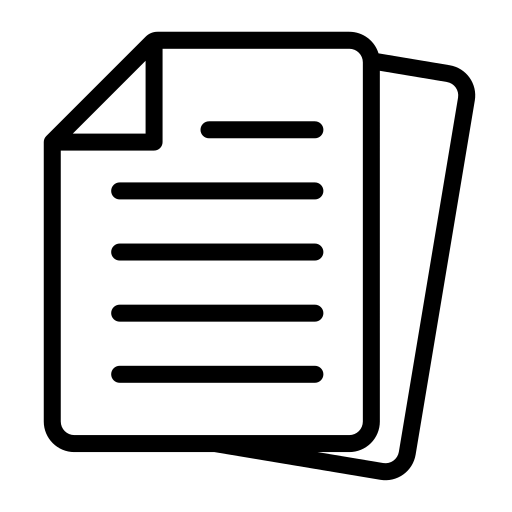
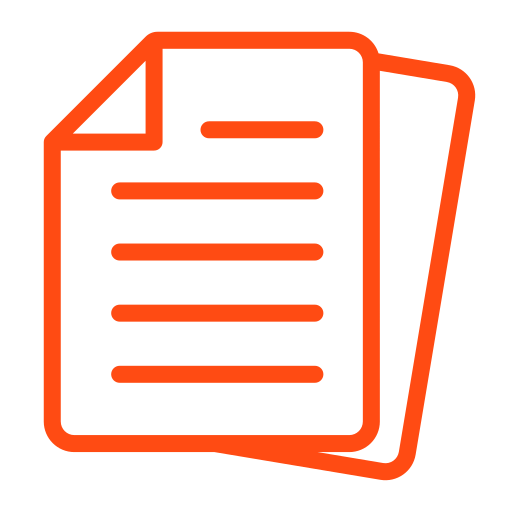
Add applicability result counts and fix table overflow

diff --git a/src/frontend/styles.css b/src/frontend/styles.css
@@ -374,11 +374,15 @@ input {
 .applicability-feedback[hidden] { display: none; }
 .applicability-results-panel { display: flex; min-height: 420px; flex: 1 1 auto; flex-direction: column; }
 .applicability-results-table { min-height: 0; flex: 1 1 auto; overflow: auto; }
-.applicability-results-table table { min-width: 560px; }
+.applicability-results-table table { width: 100%; min-width: 560px; }
 .applicability-results-table th,
-.applicability-results-table td { padding: 10px 12px; }
-.applicability-results-footer { display: flex; min-height: 58px; flex: 0 0 auto; align-items: center; justify-content: flex-end; padding: 9px 12px; border-top: 1px solid var(--line); background: #fff; }
-.applicability-results-actions { display: grid; justify-items: end; gap: 8px; }
+.applicability-results-table td { padding: 10px 12px; overflow-wrap: anywhere; }
+.applicability-results-footer { display: flex; min-height: 58px; flex: 0 0 auto; align-items: center; flex-wrap: wrap; gap: 12px 24px; padding: 9px 12px; border-top: 1px solid var(--line); background: #fff; }
+.applicability-results-summary { display: flex; min-width: 0; flex-wrap: wrap; gap: 6px 20px; margin: 0; font-size: 12px; }
+.applicability-results-summary > div { display: flex; gap: 5px; }
+.applicability-results-summary dt { color: var(--muted); font-weight: 500; }
+.applicability-results-summary dd { margin: 0; color: var(--ink); font-weight: 800; }
+.applicability-results-actions { display: grid; margin-left: auto; justify-items: end; gap: 8px; }
 .applicability-list-button { --bs-btn-active-bg: var(--accent-dark); --bs-btn-active-border-color: var(--accent-dark); --bs-btn-focus-shadow-rgb: 255, 75, 19; display: inline-flex; align-items: center; gap: 8px; min-height: 38px; padding: 0 14px; border-color: var(--accent); color: #fff; background: var(--accent); font-weight: 800; }
 .applicability-list-button svg { width: 17px; height: 17px; fill: none; stroke: currentColor; stroke-linecap: round; stroke-linejoin: round; stroke-width: 1.8; }
 .applicability-list-button:hover, .applicability-list-button:focus-visible, .applicability-list-button:active, .applicability-list-button:active:focus { border-color: var(--accent-dark); background: var(--accent-dark); box-shadow: 0 0 0 .25rem rgb(255 75 19 / 24%); }

diff --git a/src/frontend/applicability.js b/src/frontend/applicability.js
@@ -32,6 +32,9 @@ const deleteResultButton = document.querySelector("#applicability-result-delete-
 const submitButton = document.querySelector("#applicability-submit");
 const feedback = document.querySelector("#applicability-feedback");
 const resultsBody = document.querySelector("#applicability-results-body");
+const resultsTotal = document.querySelector("#applicability-results-total");
+const resultsFound = document.querySelector("#applicability-results-found");
+const resultsNotFound = document.querySelector("#applicability-results-not-found");
 const listButton = document.querySelector("#applicability-list-button");
 const multiListButton = document.querySelector("#applicability-multi-list-button");
 const applicabilityToast = document.querySelector("#applicability-toast");
@@ -876,6 +879,11 @@ const renderResults = (tab) => {
   pruneSelectedEntries(tab);
   resultsBody.replaceChildren();
   updateListButton(tab);
+  const searches = completedSearches(tab);
+  const found = searches.filter((entry) => entry.results.length > 0).length;
+  resultsTotal.textContent = String(tab.searches.length);
+  resultsFound.textContent = String(found);
+  resultsNotFound.textContent = String(searches.length - found);
   if (!tab.searches.length) return;
   tab.searches.forEach((entry) => {
     const row = document.createElement("tr");

diff --git a/src/frontend/index.html b/src/frontend/index.html
@@ -301,6 +301,11 @@
               </table>
             </div>
             <footer class="applicability-results-footer">
+              <dl class="applicability-results-summary" id="applicability-results-summary" role="status" aria-live="polite" aria-atomic="true" aria-label="Сводка текущей вкладки" title="Каждая пара «артикул + производитель» считается отдельно. Незавершённые поиски не включены в «Найдено» и «Не найдено».">
+                <div><dt>Всего артикулов:</dt><dd id="applicability-results-total">0</dd></div>
+                <div><dt>Найдено:</dt><dd id="applicability-results-found">0</dd></div>
+                <div><dt>Не найдено:</dt><dd id="applicability-results-not-found">0</dd></div>
+              </dl>
               <div class="applicability-results-actions">
                 <button type="button" class="btn btn-primary applicability-list-button" id="applicability-list-button" disabled>
                   <svg aria-hidden="true" viewBox="0 0 24 24"><path d="M7 3.75h7l3.25 3.25v13.25H7z" /><path d="M14 3.75V7h3.25M9.75 11h4.5M9.75 14.25h4.5M9.75 17.5h3" /></svg>

diff --git a/README.md b/README.md
@@ -103,6 +103,14 @@ The frontend uses native browser modules without a bundler. `src/frontend/app.js
 На экранах до 720 px поля артикула, бренда и кнопки поиска расположены
 в отдельных строках, чтобы поле бренда не перекрывало кнопки.
 
+Слева от кнопок формирования списка показаны «Всего артикулов», «Найдено»
+и «Не найдено» для текущей вкладки. Каждая пара «артикул + производитель»
+считается отдельно. «Найдено» означает завершённый поиск с применимостью,
+«Не найдено» — успешный поиск без применимости; незавершённые поиски входят
+только в общее количество. Ошибки и отменённые запросы не создают пустых результатов.
+Таблица применимости занимает доступную ширину; горизонтальная прокрутка
+нужна только когда её три колонки не помещаются (минимальная ширина 560 px).
+
 Список и мультисписок включают завершённые поиски без найденной применимости:
 для них остаётся только заголовок «OEM-артикул: … | бренд» без автомобильных строк.
 В структурированном списке пустые OEM-блоки после удаления повторов помещаются
